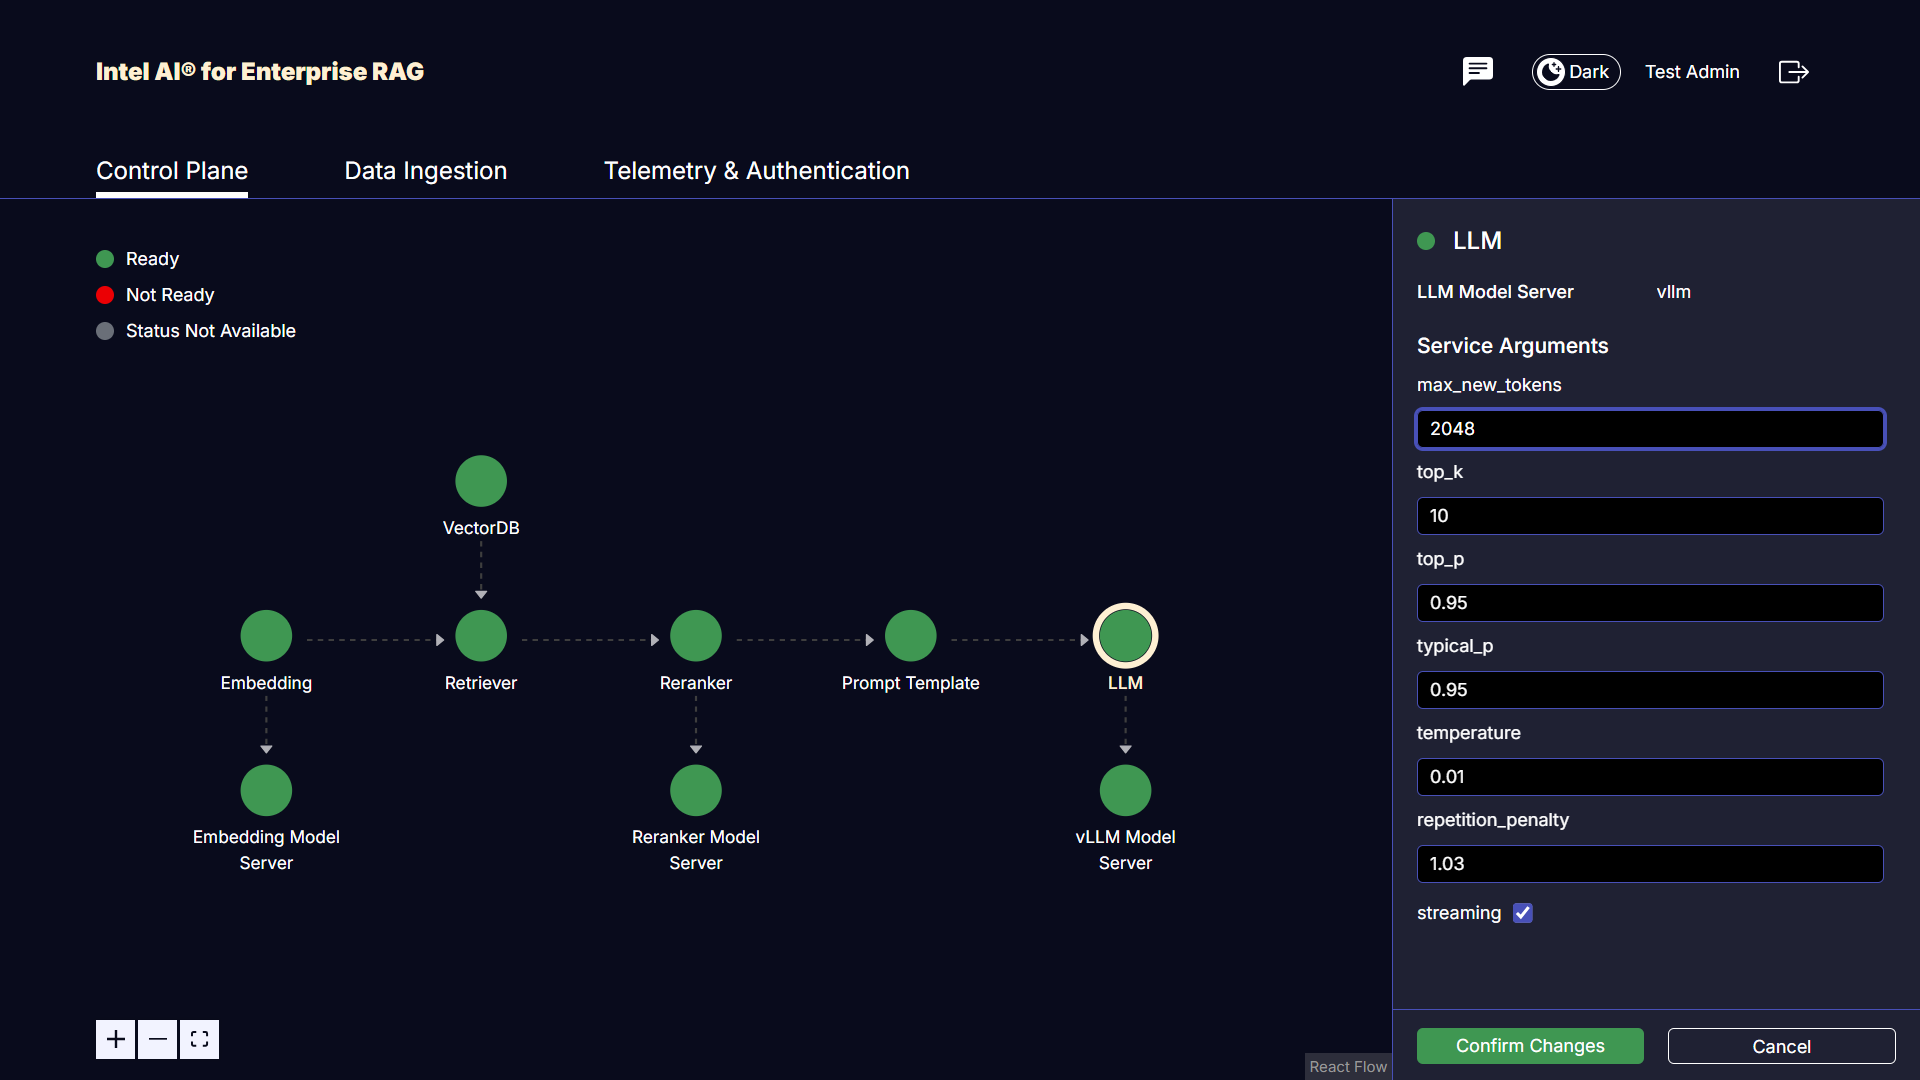
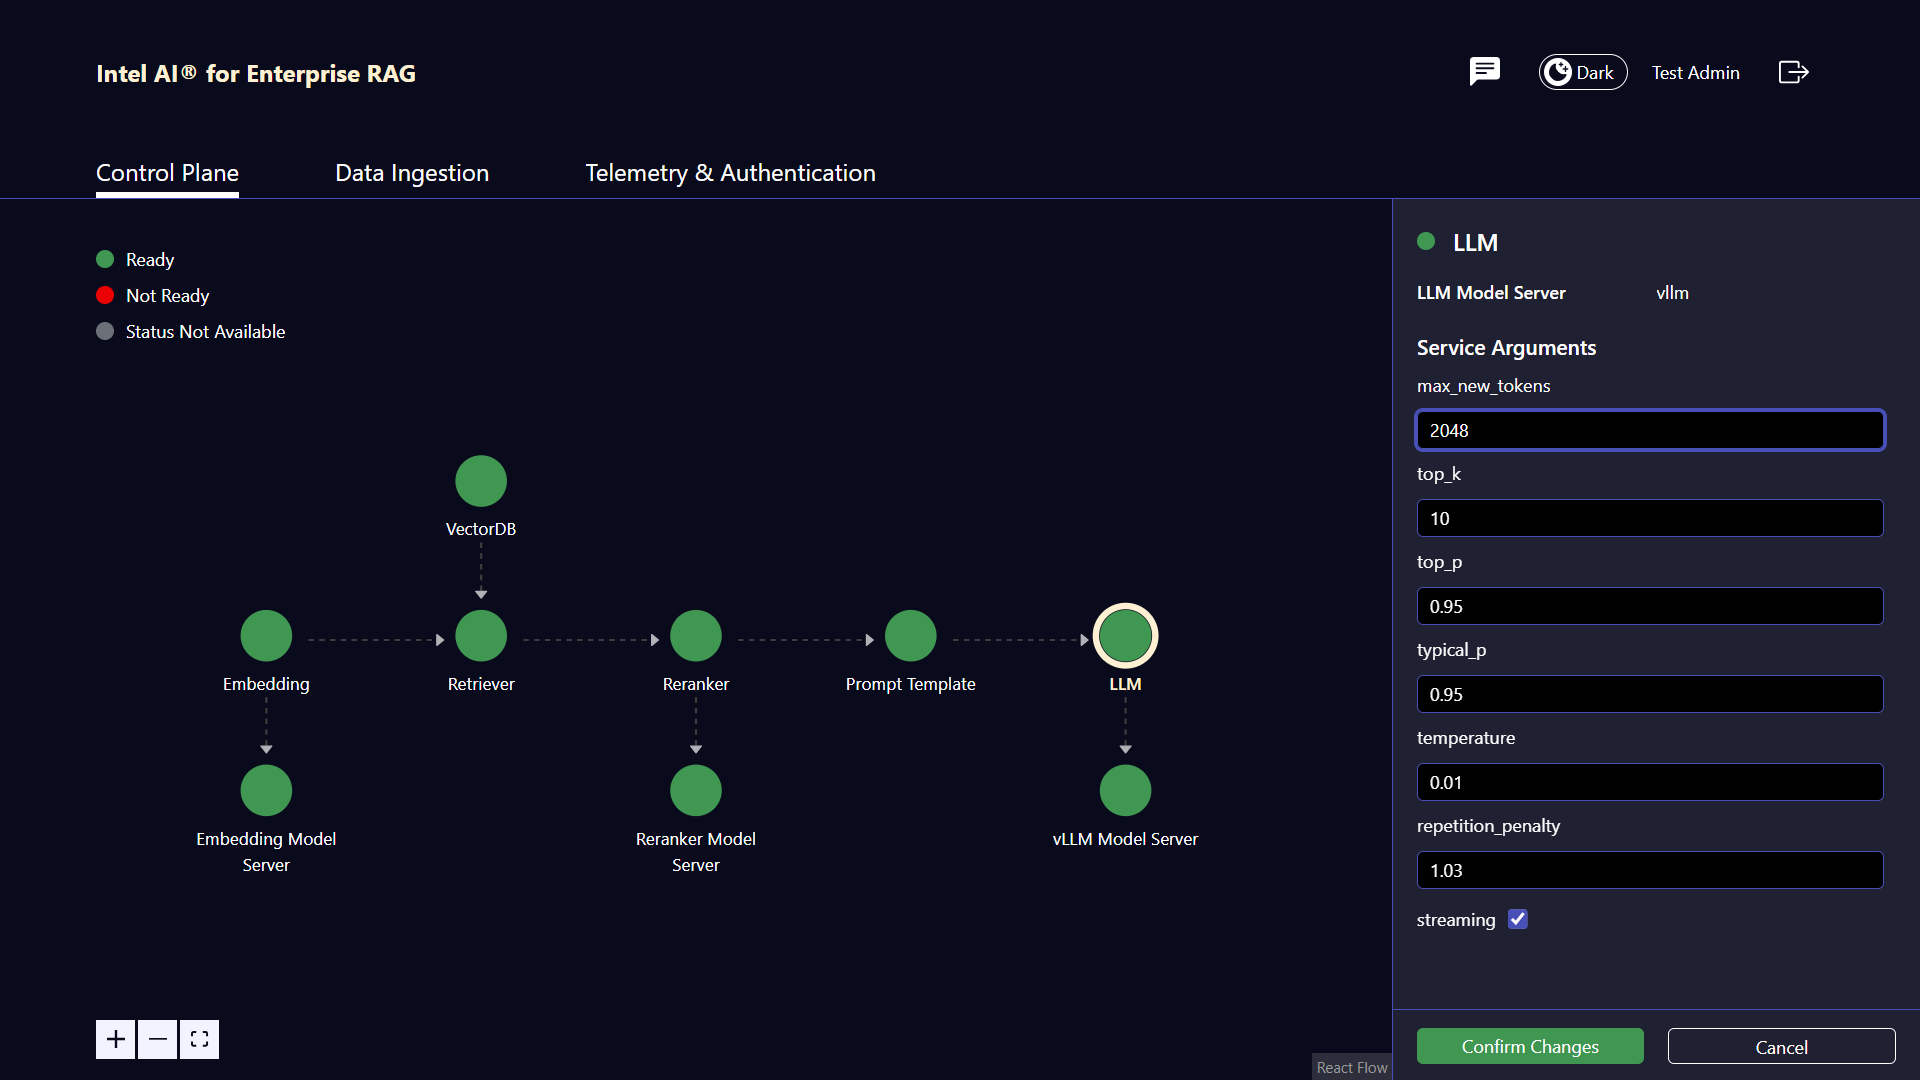
[UI] remove font (#1012)
* chore: uninstall fontsource inter font package

* refactor: add fallback fonts to global styles

* refactor: update font fallback

* refactor: change app name font weight

* refactor: update ui docs images

diff --git a/src/ui/src/main.tsx b/src/ui/src/main.tsx
@@ -1,12 +1,6 @@
 // Copyright (C) 2024-2025 Intel Corporation
 // SPDX-License-Identifier: Apache-2.0
 
-import "@fontsource/inter";
-import "@fontsource/inter/100.css";
-import "@fontsource/inter/400.css";
-import "@fontsource/inter/500.css";
-import "@fontsource/inter/600.css";
-import "@fontsource/inter/900.css";
 import "./index.scss";
 
 import { StrictMode } from "react";

diff --git a/src/ui/src/components/ui/AppHeader/AppHeader.scss b/src/ui/src/components/ui/AppHeader/AppHeader.scss
@@ -7,7 +7,7 @@
   @apply bg-light-bg-1 dark:bg-dark-bg-1;
 
   & .app-header__app-name {
-    @apply text-left text-base font-black leading-5;
+    @apply text-left text-base font-bold leading-5;
     @apply text-light-secondary dark:text-dark-secondary;
   }
 

diff --git a/src/ui/src/index.scss b/src/ui/src/index.scss
@@ -25,7 +25,13 @@
 }
 
 body {
-  font-family: "Inter", sans-serif;
+  font-family:
+    system-ui,
+    -apple-system,
+    BlinkMacSystemFont,
+    "Helvetica",
+    "Arial",
+    sans-serif;
   font-weight: normal;
   font-size: 16px;
 }
